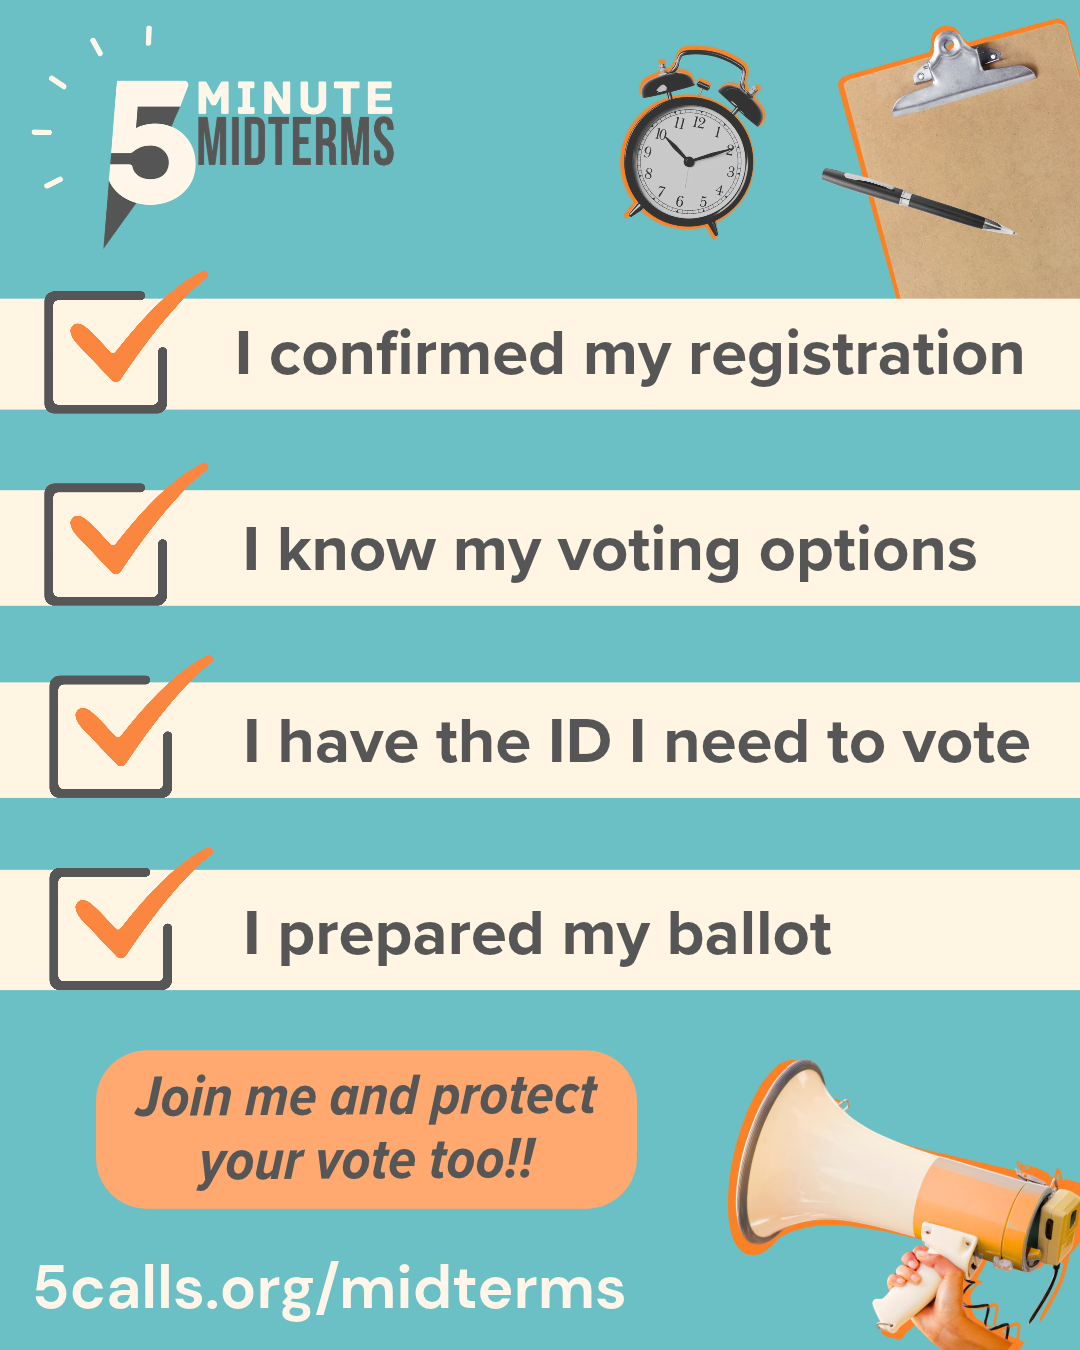
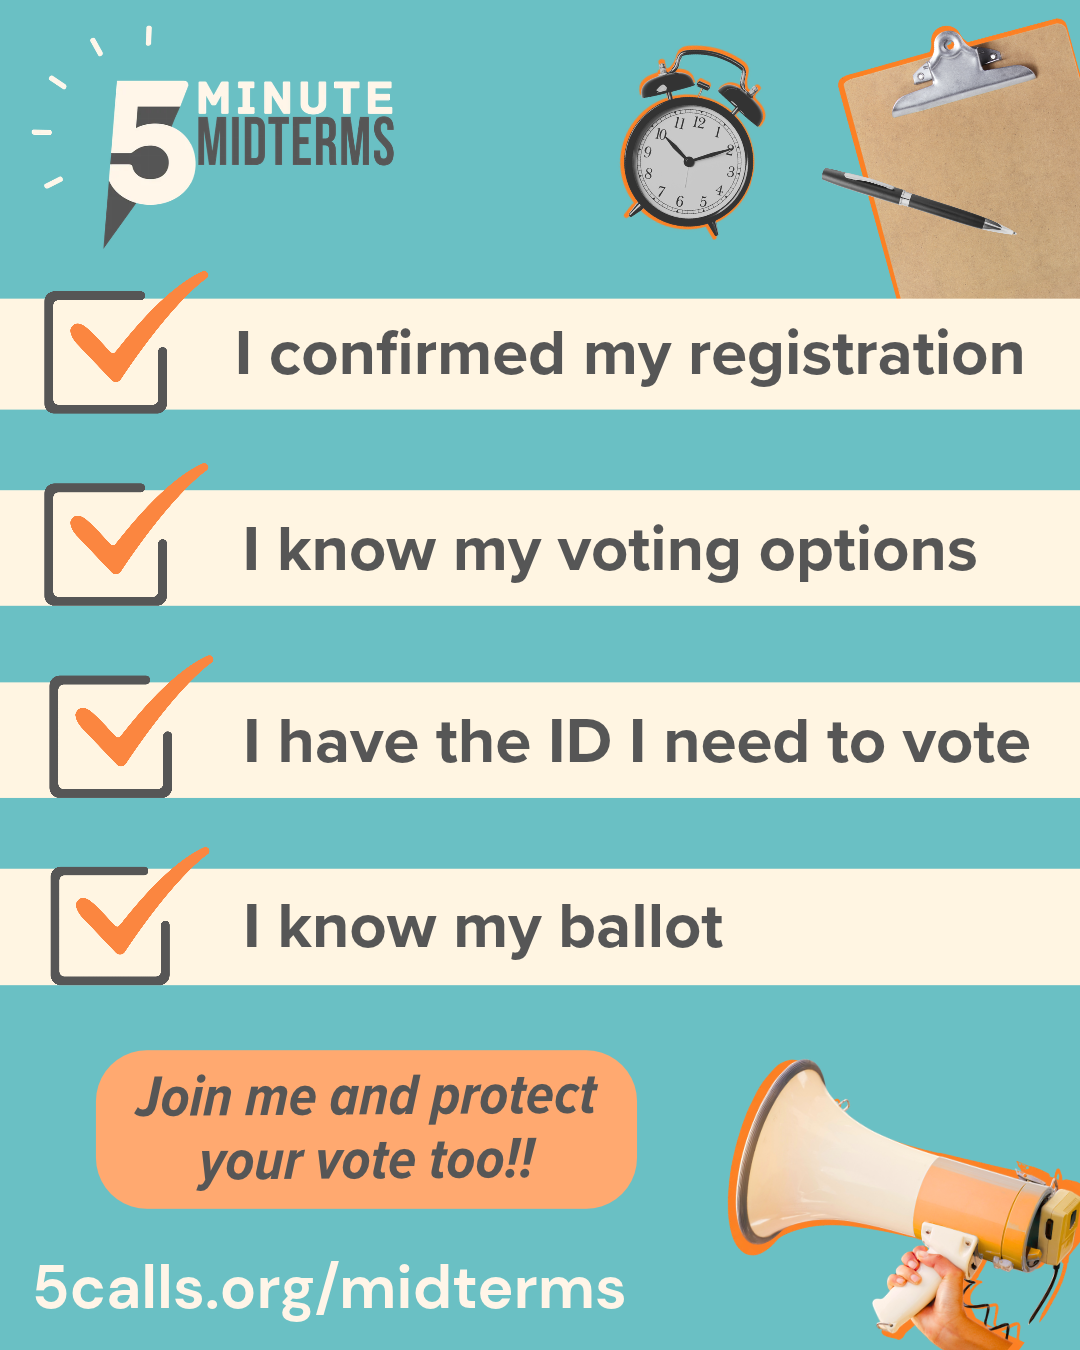
Finish week four: BallotReady button, per-state data dates, extra credit
The action card gets a single button out to BallotReady and a line,
swapped with the state picker, for states whose ballot information
BallotReady hasn't loaded yet. Adds the intro copy, the extra credit with
its sample message, and both "I know my ballot" share images.

Changed region(s): [[0.0, 0.6533, 1.0, 0.7467], [0.1528, 0.6222, 0.2139, 0.6533]]

diff --git a/layouts/partials/midterms-page.html b/layouts/partials/midterms-page.html
@@ -58,6 +58,7 @@
 {{- $missing := slice -}}
 {{- $required := slice "intro" "message" "copy_cta" "rewrite_cta" "confirm" "why" -}}
 {{- if $deck }}{{ $required = slice "intro" "deck_cta" "confirm" "why" }}{{ end -}}
+{{- if $week.link_cta }}{{ $required = slice "intro" "message" "link_cta" "confirm" "why" }}{{ end -}}
 {{- /* The options card draws itself from the state's own data, so the week
        writes no card copy of its own. */ -}}
 {{- if $voting }}{{ $required = slice "intro" "confirm" "why" }}{{ end -}}
@@ -523,10 +524,24 @@
                   </div>
                 {{- end }}
                 <p class="mt-message__text" data-message>{{ $week.message }}</p>
+                {{- /* The reader's state's line, if the week has one for it.
+                       Drawn for the default state and swapped by the state
+                       picker; the script hides a dated line once its day has
+                       passed. */ -}}
+                {{- with $week.state_note }}
+                  {{- $n := partial "midterms-state-note.html" (dict "note" . "code" $d.state.abbr "name" $d.state.name) }}
+                  <p class="mt-message__text" data-state-note data-until="{{ $n.until }}"{{ if not $n.text }} hidden{{ end }}>{{ $n.text }}</p>
+                {{- end }}
                 <div class="mt-message__actions">
-                  <button type="button" class="mt-pill mt-pill--solid" data-copy>{{ $week.copy_cta }}</button>
-                  <!-- FPO: rewrite tool is not built yet. -->
-                  <span class="mt-pill mt-pill--blue">{{ $week.rewrite_cta }}</span>
+                  {{- /* A week whose action happens on another site links
+                         there instead of offering the message to copy. */ -}}
+                  {{- with $week.link_cta }}
+                    <a class="mt-pill mt-pill--solid" href="{{ .url }}" rel="noopener">{{ .label }}</a>
+                  {{- else }}
+                    <button type="button" class="mt-pill mt-pill--solid" data-copy>{{ $week.copy_cta }}</button>
+                    <!-- FPO: rewrite tool is not built yet. -->
+                    <span class="mt-pill mt-pill--blue">{{ $week.rewrite_cta }}</span>
+                  {{- end }}
                 </div>
               </div>
             {{- end }}
@@ -806,6 +821,10 @@
         {{- $entry = merge $entry (dict
             "lede" (partial "midterms-voting.html" (dict "state" $v "part" "lede"))
             "body" (partial "midterms-voting.html" (dict "state" $v "part" "body"))) -}}
+      {{- end -}}
+      {{- /* The week's line about this state, under the message. */ -}}
+      {{- with $week.state_note -}}
+        {{- $entry = merge $entry (dict "note" (partial "midterms-state-note.html" (dict "note" . "code" $code "name" $s.name))) -}}
       {{- end -}}
       {{- /* The ID card. Its button goes to that state's own election office
              rather than the registration site every other week uses, so the
@@ -1328,6 +1347,17 @@
           });
         }
 
+        // A dated state line stops applying the day after its date, which a
+        // static page only learns from the reader's clock.
+        function showNote(note) {
+          var d = new Date();
+          var today = d.getFullYear() + "-" + String(d.getMonth() + 1).padStart(2, "0") + "-" + String(d.getDate()).padStart(2, "0");
+          var until = note.dataset.until;
+          note.hidden = !note.textContent || (!!until && today > until);
+        }
+        var stateNote = document.querySelector("[data-state-note]");
+        if (stateNote) showNote(stateNote);
+
         function applyState(code) {
           var s = states[code];
           if (!s) return;
@@ -1366,6 +1396,14 @@
               href.replace(/\/midterms\/calendar\/[a-z]{2}\.ics/, "/midterms/calendar/" + code.toLowerCase() + ".ics")
             );
           });
+
+          // The week's line about this state, if it has one.
+          var note = document.querySelector("[data-state-note]");
+          if (note && s.note) {
+            note.textContent = s.note.text;
+            note.dataset.until = s.note.until;
+            showNote(note);
+          }
 
           // Everywhere else the state is named.
           document.querySelectorAll("[data-state-name-upper]").forEach(function (el) {

diff --git a/layouts/partials/midterms-state-note.html b/layouts/partials/midterms-state-note.html
@@ -1,0 +1,24 @@
+{{- /*
+  A week's line about one state, from its `state_note` block in
+  data/midterms.yml. Takes (dict "note" WEEK.state_note "code" "AL" "name"
+  "Alabama") and returns {text, until}: until is the ISO date after which the
+  line no longer applies, empty when it has none. A state the block doesn't
+  list gets empty text.
+*/ -}}
+{{- $text := "" -}}
+{{- $until := "" -}}
+{{- with .note -}}
+  {{- $v := index .states $.code -}}
+  {{- if eq $v "soon" -}}
+    {{- $text = replace .soon "{state}" $.name -}}
+  {{- else if $v -}}
+    {{- $text = replace (replace .dated "{state}" $.name) "{date}" $v -}}
+    {{- /* "Tue, Oct 6" -> "2026-10-06". The notes all fall in this election's
+           October and November. */ -}}
+    {{- $p := split (replace $v "," "") " " -}}
+    {{- $m := index (dict "Oct" 10 "Nov" 11) (index $p 1) -}}
+    {{- if not $m }}{{ errorf "midterms-state-note: expected an Oct or Nov date, got %q" $v }}{{ end -}}
+    {{- $until = printf "2026-%02d-%02d" $m (int (index $p 2)) -}}
+  {{- end -}}
+{{- end -}}
+{{- return dict "text" $text "until" $until -}}
